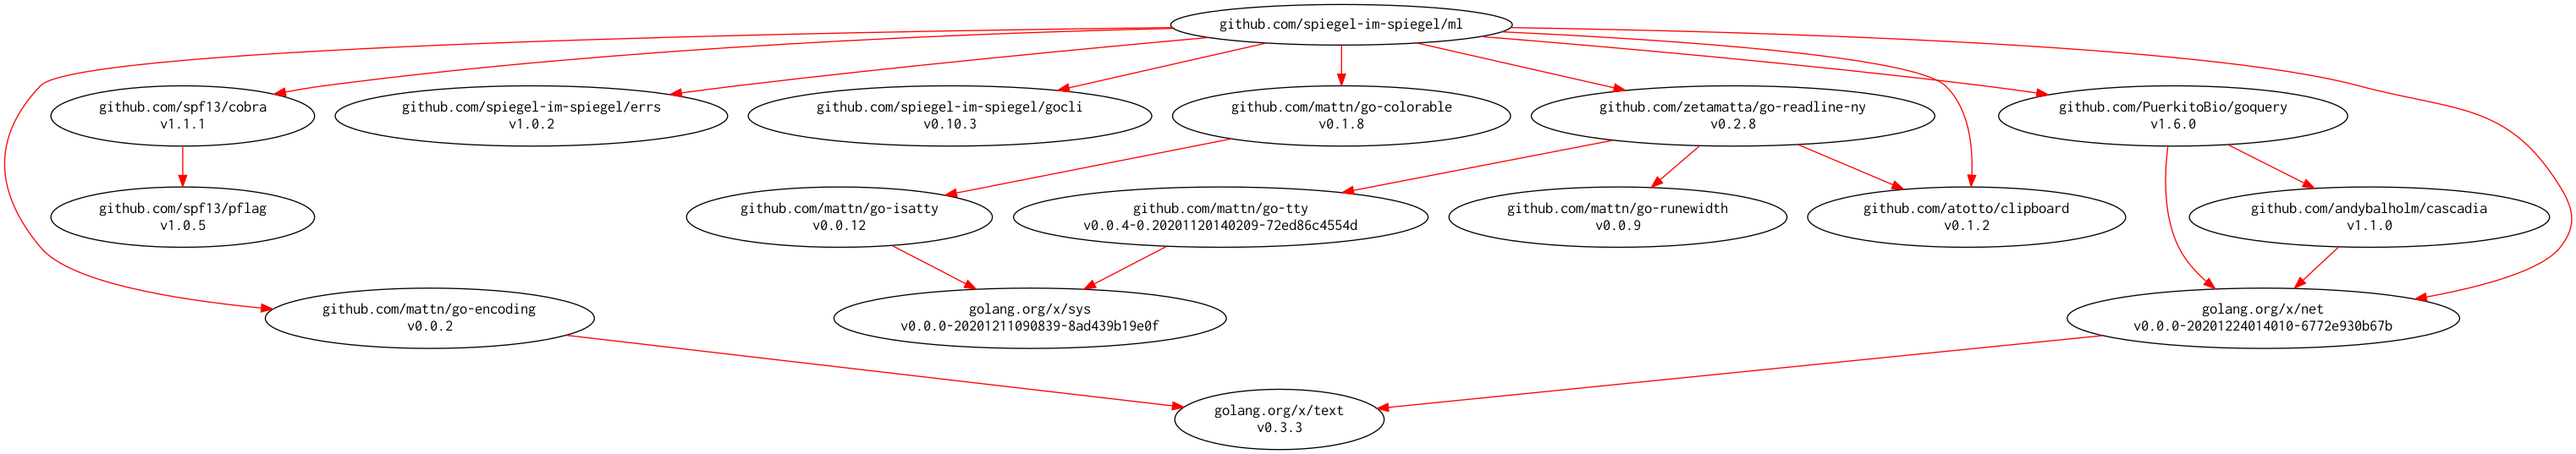
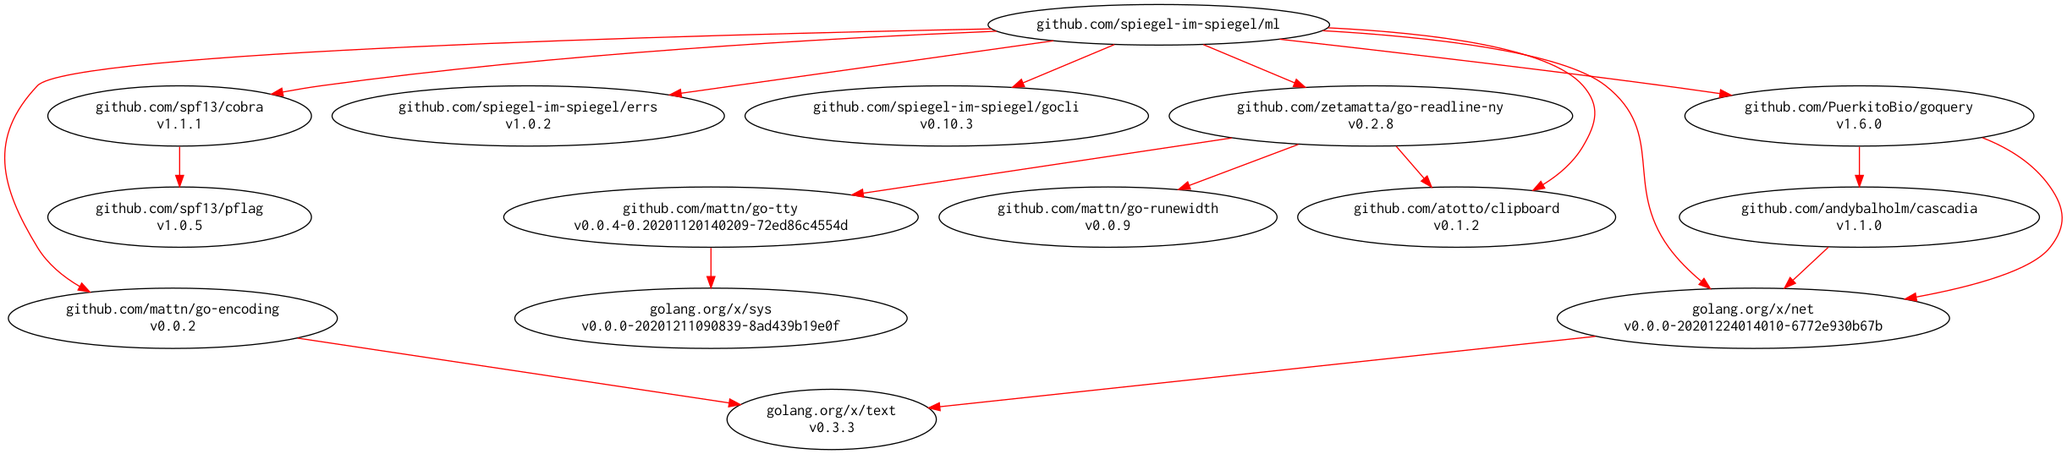
Fix interactive mode

diff --git a/facade/interactive/interactive.go b/facade/interactive/interactive.go
@@ -7,7 +7,6 @@ import (
 	"os"
 
 	"github.com/atotto/clipboard"
-	"github.com/mattn/go-colorable"
 	"github.com/spiegel-im-spiegel/errs"
 	"github.com/spiegel-im-spiegel/ml/facade/options"
 	"github.com/zetamatta/go-readline-ny"
@@ -18,7 +17,6 @@ func Do(opts *options.Options) error {
 	history := simplehistory.New()
 	editor := readline.Editor{
 		Prompt:  func() (int, error) { return fmt.Print("ml> ") },
-		Writer:  colorable.NewColorableStdout(),
 		History: history,
 	}
 	fmt.Println("Input 'q' or 'quit' to stop")
